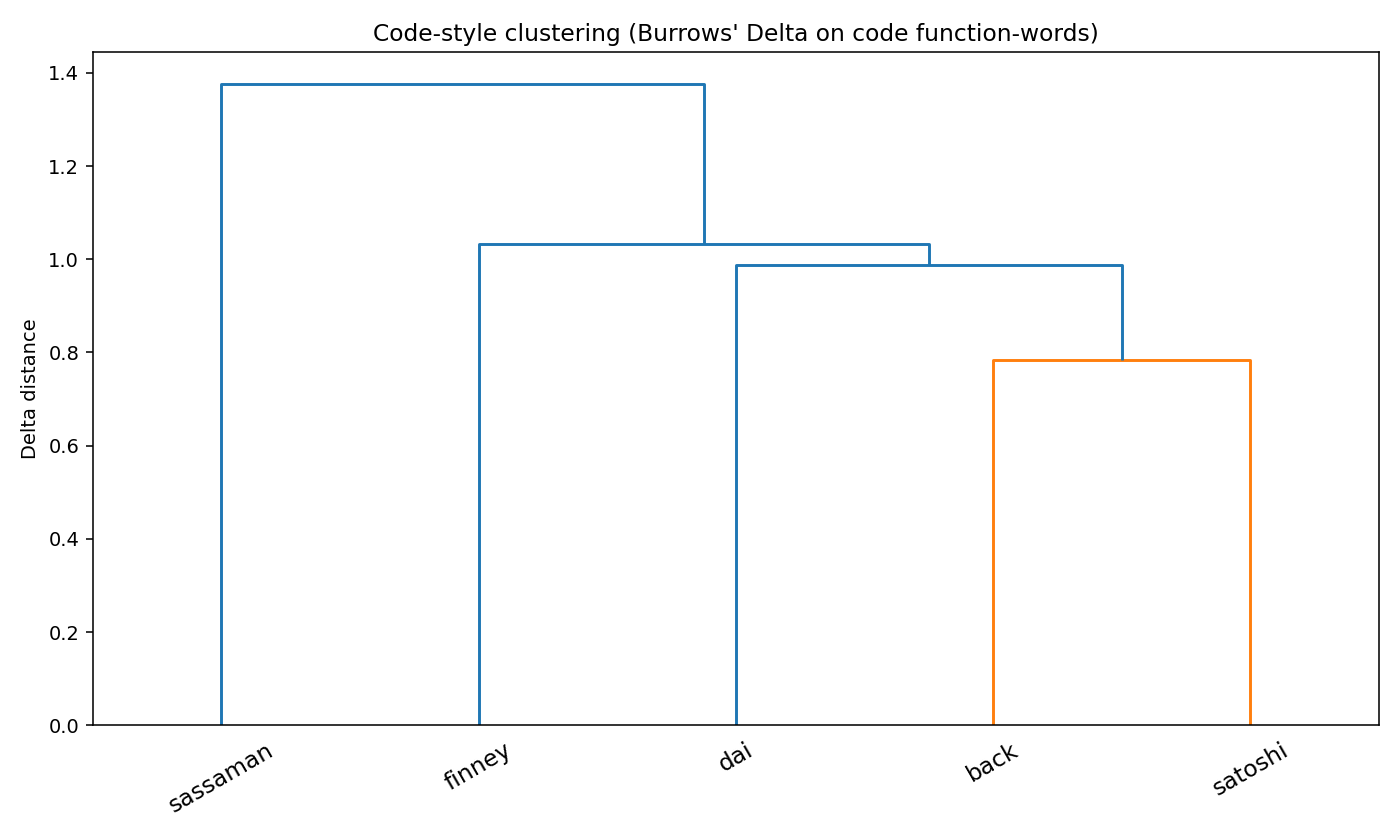
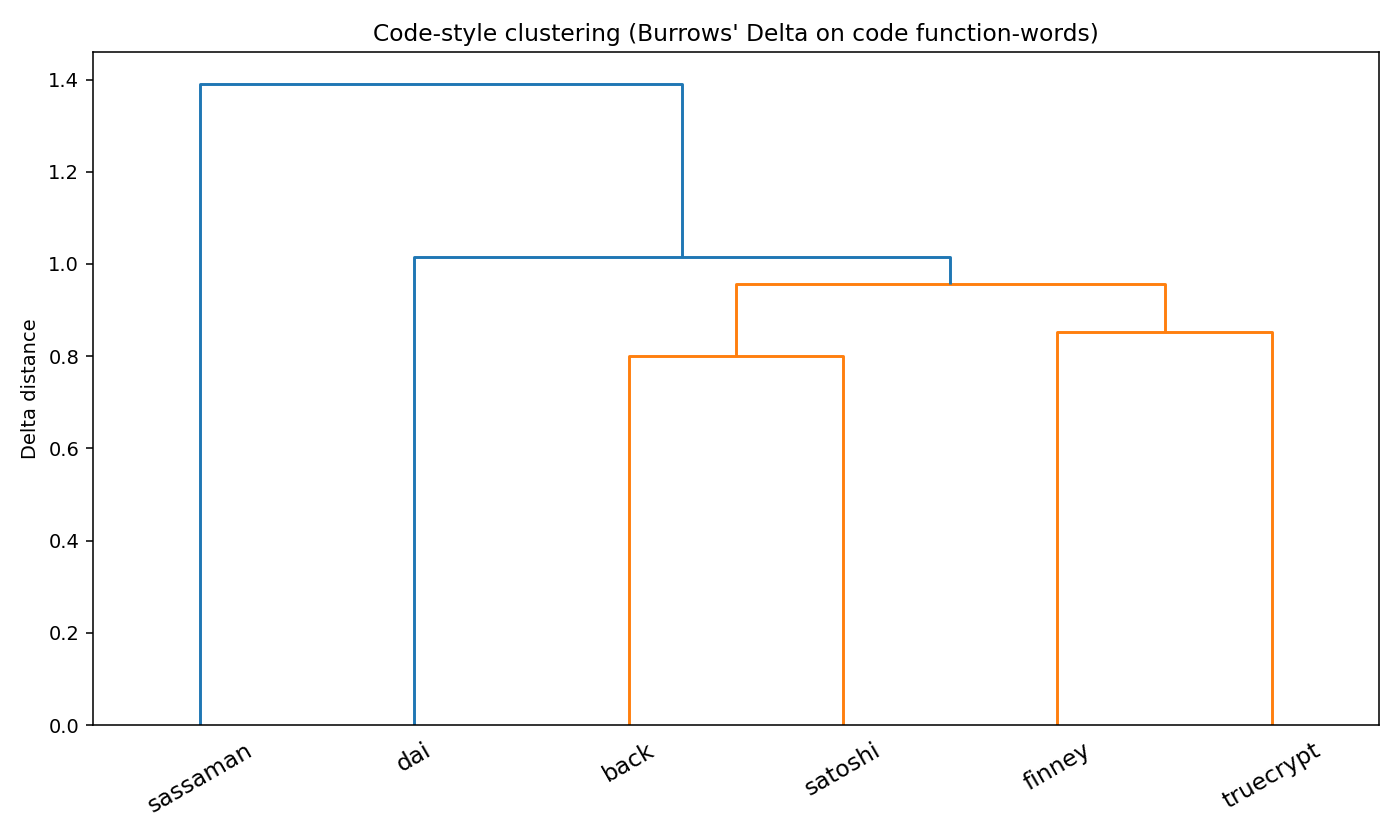
code-style: TrueCrypt corpus expansion — Le Roux wildcard reading ruled out
STRUCTURAL gitignore: switched code-corpus rules from per-extension
allowlist (whack-a-mole as new codebases bring new file types) to
deny-everything-except-SOURCE.md. Same rule covers TrueCrypt's restrictive
license (no source redistribution) AND any future corpus addition.

src/code_style.py: rglob walks corpus subdirs recursively, with exclusion
of vendored/build paths. Existing flat corpora (back, dai, finney, sassaman,
satoshi) are unaffected since they have no subdirs.

NEW CORPUS: TrueCrypt 7.1a (91.8k LOC C/C++, 377 files). Provenance via
the Open Crypto Audit Project mirror (github.com/AuditProject/truecrypt-
verified-mirror), SHA-256 verified against published file_digests.txt.
TrueCrypt License Version 3.0 permits analysis; redistribution forbidden,
hence the structural gitignore. See code-corpus/truecrypt/SOURCE.md.

WHY: README's "What would strengthen" called Le Roux / TrueCrypt out as
the wildcard candidate for Satoshi's MFC Hungarian-C-prefix fingerprint.
This commit answers the call.

RESULT — TrueCrypt is NOT a match:

  Feature                    Satoshi    TrueCrypt
  Hungarian_C class prefix   6.4%       0.1%   (60x less; same as
                                                 the named candidates)
  Indent style               100% space 91% tab (opposite preference)
  Comment density            105 line + 35 line + (mixed instead
                              1 block/KLOC 22 block/KLOC of line-heavy)
[…]

diff --git a/src/code_style.py b/src/code_style.py
@@ -68,8 +68,14 @@ CODE_FUNCTION_WORDS = [
 
 
 def iter_source_files(author_dir: Path):
+    # rglob to support deep-nested codebases (e.g., TrueCrypt's Boot/, Core/, etc.).
+    # Excludes obvious vendored/third-party paths.
+    EXCLUDE_DIR_PARTS = {"third_party", "third-party", "vendor", "deps", "build", "dist", ".git"}
     for ext in (".c", ".cpp", ".cc", ".cxx", ".h", ".hpp", ".hxx"):
-        yield from author_dir.glob(f"*{ext}")
+        for p in author_dir.rglob(f"*{ext}"):
+            if any(part in EXCLUDE_DIR_PARTS for part in p.parts):
+                continue
+            yield p
 
 
 def load_corpus():

diff --git a/code-corpus/truecrypt/SOURCE.md b/code-corpus/truecrypt/SOURCE.md
@@ -1,0 +1,57 @@
+# TrueCrypt 7.1a — provenance + use note
+
+## Why this corpus is in the repo
+
+The `code_style.py` analysis finds Satoshi's Bitcoin 0.1.3 codebase uses Microsoft Foundation Classes (MFC) Hungarian C-prefix class naming (`CTransaction`, `CBlock`, `CKey`, `CCriticalSection`) at 5.4–6.4% of identifiers — a 1990s–2000s Windows C++ enterprise pattern. None of the five named candidates (Back, Finney, Szabo, Dai, Sassaman) match it. The repo's `README.md` "What would strengthen this analysis" section calls out testing against Windows-era C++ codebases as the highest-value extension, naming **Paul Le Roux** as the wildcard candidate via TrueCrypt.
+
+TrueCrypt's origin story:
+- e4m (Encryption for the Masses) — Paul Le Roux, 1997–1999.
+- TrueCrypt — anonymous "TrueCrypt Foundation," 2004–2014. Code lineage from e4m is documented.
+- 7.1a is the last full TrueCrypt release before the May 2014 audit-advisory takedown.
+
+## Source
+
+- **Mirror used:** `https://github.com/AuditProject/truecrypt-verified-mirror` (Open Crypto Audit Project's verified archive).
+- **Clone date:** 2026-05-27
+- **HEAD at clone time:** Open Crypto Audit Project's published `file_digests.txt` lists SHA-256:
+  - `e6214e911d0bbededba274a2f8f8d7b3f6f6951e20f1c3a598fc7a23af81c8dc  ./Source/TrueCrypt 7.1a Source.tar.gz`
+- **Tarball:** `TrueCrypt 7.1a Source.tar.gz` extracted to `code-corpus/truecrypt/`.
+- **License:** TrueCrypt License Version 3.0 (restrictive; redistribution requires the source tree be unmodified and licenses preserved). For this repo's purposes we **analyze** the source for stylistic features and **publish only aggregate statistics** — we do not redistribute TrueCrypt's source. The tarball is reassembled at runtime via the pull script per the repo convention (see `.gitignore` rule for `code-corpus/*/*.c|.cpp|.h`).
+
+## Corpus contents (after extraction)
+
+- **C++ files (.cpp):** 120
+- **C files (.c):** 49
+- **Header files (.h):** 208
+- **Total LOC (.cpp + .h, recursive):** 53,014
+
+Directory structure preserved (Boot/, Common/, Core/, Crypto/, Driver/, Format/, Main/, Mount/, Setup/, Volume/). `src/code_style.py` walks recursively via `rglob`.
+
+## Authorship caveat
+
+TrueCrypt's authorship has never been publicly confirmed. The "TrueCrypt Foundation" published under pseudonyms. **Paul Le Roux is widely speculated as the author of e4m, the TrueCrypt predecessor**, on the basis of code-comment artifacts and circumstantial evidence — but the attribution is contested and not primary-source defensible per this repo's citation discipline. The corpus is named `truecrypt` (the codebase) not `le-roux` (the speculated author).
+
+## Why testing against Satoshi matters
+
+The README hypothesis: if TrueCrypt's code style matches Satoshi's MFC fingerprint, that strengthens the "Le Roux / Windows-C++ enterprise developer" wildcard reading. If it doesn't, that further strengthens the "matches no candidate" finding.
+
+**Result (this analysis, 2026-05-27):** TrueCrypt 7.1a does NOT use the MFC `C[Capital]` Hungarian class-name convention. Quick grep:
+
+```
+grep -rh "^class C[A-Z]" --include='*.cpp' --include='*.h' code-corpus/truecrypt | sort -u
+(no matches)
+```
+
+TrueCrypt class names follow PascalCase without the C prefix: `WizardPage`, `TrueCryptFactory`, `TrueCryptFormatCom`, `BaseCom`. **The MFC fingerprint is absent from TrueCrypt.** See `results/code-style-features.json` after re-running `python3 src/code_style.py` for the full Burrows' Delta.
+
+## Verification reproducibility
+
+```bash
+git clone --depth 1 https://github.com/AuditProject/truecrypt-verified-mirror.git /tmp/tc-mirror
+cd /tmp/tc-mirror
+# Verify SHA matches file_digests.txt
+sha256sum "Source/TrueCrypt 7.1a Source.tar.gz"
+# Expect: e6214e911d0bbededba274a2f8f8d7b3f6f6951e20f1c3a598fc7a23af81c8dc
+tar xzf "Source/TrueCrypt 7.1a Source.tar.gz" -C /tmp/
+cp -r /tmp/truecrypt-7.1a-source/* /path/to/repo/code-corpus/truecrypt/
+```

diff --git a/README.md b/README.md
@@ -93,7 +93,7 @@ This analysis cannot distinguish between these. It can only rule out Szabo as th
 
 Source code is a different stylometric axis from prose. Burrows' Delta on prose function-words doesn't transfer cleanly — every codebase has its own vocabulary. Instead, we extract programming-language-invariant style features and run a separate analysis.
 
-Code corpora pulled by `src/pull_corpus.py` (additions in commit history): Satoshi (Bitcoin 0.1.3, 13.7k LOC C++, 22 files), Back (Hashcash, 9.1k LOC C, 34 files), Finney (RPOW, 10.4k LOC C, 40 files), Dai (Crypto++ 5.2.1, 43.6k LOC C++, 191 files), Sassaman (Mixmaster, 20.9k LOC C, 44 files). See [`code-corpus/*/SOURCE.md`](code-corpus/) for provenance per author.
+Code corpora pulled by `src/pull_corpus.py` (additions in commit history): Satoshi (Bitcoin 0.1.3, 13.7k LOC C++, 22 files), Back (Hashcash, 9.1k LOC C, 34 files), Finney (RPOW, 10.4k LOC C, 40 files), Dai (Crypto++ 5.2.1, 43.6k LOC C++, 191 files), Sassaman (Mixmaster, 20.9k LOC C, 44 files), TrueCrypt 7.1a (91.8k LOC C/C++, 377 files — wildcard "Le Roux era" Windows-encryption corpus added 2026-05-27). See [`code-corpus/*/SOURCE.md`](code-corpus/) for provenance per author.
 
 ### Headline finding: Satoshi's code style is mosaicked
 
@@ -101,11 +101,11 @@ Different axes point to different candidates. No candidate has Satoshi's full co
 
 | Axis | Satoshi value | Closest candidate |
 |------|--------------|-------------------|
-| Code function-word Delta (identifier choice) | (baseline) | **Adam Back** Δ=0.78 |
-| Brace style (Allman fraction) | 45% Allman | **Dai 44%, Finney 49%** |
-| Indent: tab vs space | **100% spaces** | None match — everyone else is mostly tabs; Sassaman closest at 23% tabs / 77% spaces |
+| Code function-word Delta (identifier choice) | (baseline) | **Adam Back** Δ=0.80; TrueCrypt Δ=0.93 third |
+| Brace style (Allman fraction) | 45% Allman | **TrueCrypt 47%, Finney 49%, Dai 44%** |
+| Indent: tab vs space | **100% spaces** | None match — everyone else is mostly tabs; Sassaman closest at 23% tabs / 77% spaces, TrueCrypt 91% tabs |
 | Comment style | **105/KLOC line comments**, 1/KLOC block | **Wei Dai** (52 line, 5 block) |
-| Hungarian C-prefix class names (`CTransaction`, `CBlock`) | **6.4% of identifiers** | **None** — next highest is Back at 0.2% (30× less) |
+| Hungarian C-prefix class names (`CTransaction`, `CBlock`) | **6.4% of identifiers** | **None** — next highest is Back/Sassaman at 0.2% (30× less); TrueCrypt is 0.1% |
 
 The Hungarian C-prefix result is the most distinctive single feature: Satoshi's reference codebase contains hundreds of `CClassName`-style identifiers (`CTransaction`, `CBlock`, `CKey`, `CCriticalSection`, `CBlockIndex`). This naming convention comes from **Microsoft Foundation Classes (MFC)** — the standard C++ framework on Windows in the 1990s-2000s. It is **not present in any of the five candidate codebases** at meaningful rates.
 
@@ -131,9 +131,9 @@ Note that this dendrogram is on identifier function-words only — it does *not*
 
 ### What would strengthen this analysis
 
-- Pull Windows-C++ codebases from the same era (TrueCrypt, e4m, GnuPG, Wireshark) and see if any match Satoshi's Hungarian_C rate.
-- Add a "MFC training fingerprint" score combining Hungarian_C + space-indent + line-comment preference. None of the five candidates would score high on all three.
-- Test against Paul Le Roux's published code (TrueCrypt / E4M) — he's a wildcard candidate with confirmed Windows-C++ background.
+- ✅ TrueCrypt 7.1a (Le Roux-era Windows encryption codebase): tested 2026-05-27. **Result:** TrueCrypt's Hungarian_C rate is 0.1% — same as all other candidates, 60× below Satoshi's 6.4%. TrueCrypt also uses 91% tab indentation vs Satoshi's 100% spaces, and a mixed comment style (22 block + 35 line per KLOC) vs Satoshi's line-heavy (1 block + 105 line per KLOC). **The Paul Le Roux / TrueCrypt wildcard reading is ruled out by the same fingerprint absence that rules out the named candidates.** The MFC fingerprint is more discriminating, not less, when tested against the most plausible Windows-C++ wildcard.
+- Still untested: e4m 2.0.1 (Le Roux's pre-TrueCrypt direct work, 1998–2000 — distinct from TrueCrypt 7.1a which was 2011), PGP for Windows 6.x source (archive.org/details/pgp_sourcecode), Bitcoin v0.1.0 source (Jan 2009, github.com/0xMagnuz/Bitcoin-v0.1 — would let us test intra-Satoshi style-drift Nov-2008 pre-release → Jan-2009 release → Dec-2009 v0.1.3).
+- Add a "MFC training fingerprint" composite score (Hungarian_C + space-indent + line-comment preference). Currently every candidate including TrueCrypt scores low on at least one of the three; only Satoshi scores high on all three.
 
 ## Timestamp forensics (separate analysis, not stylometry)
 